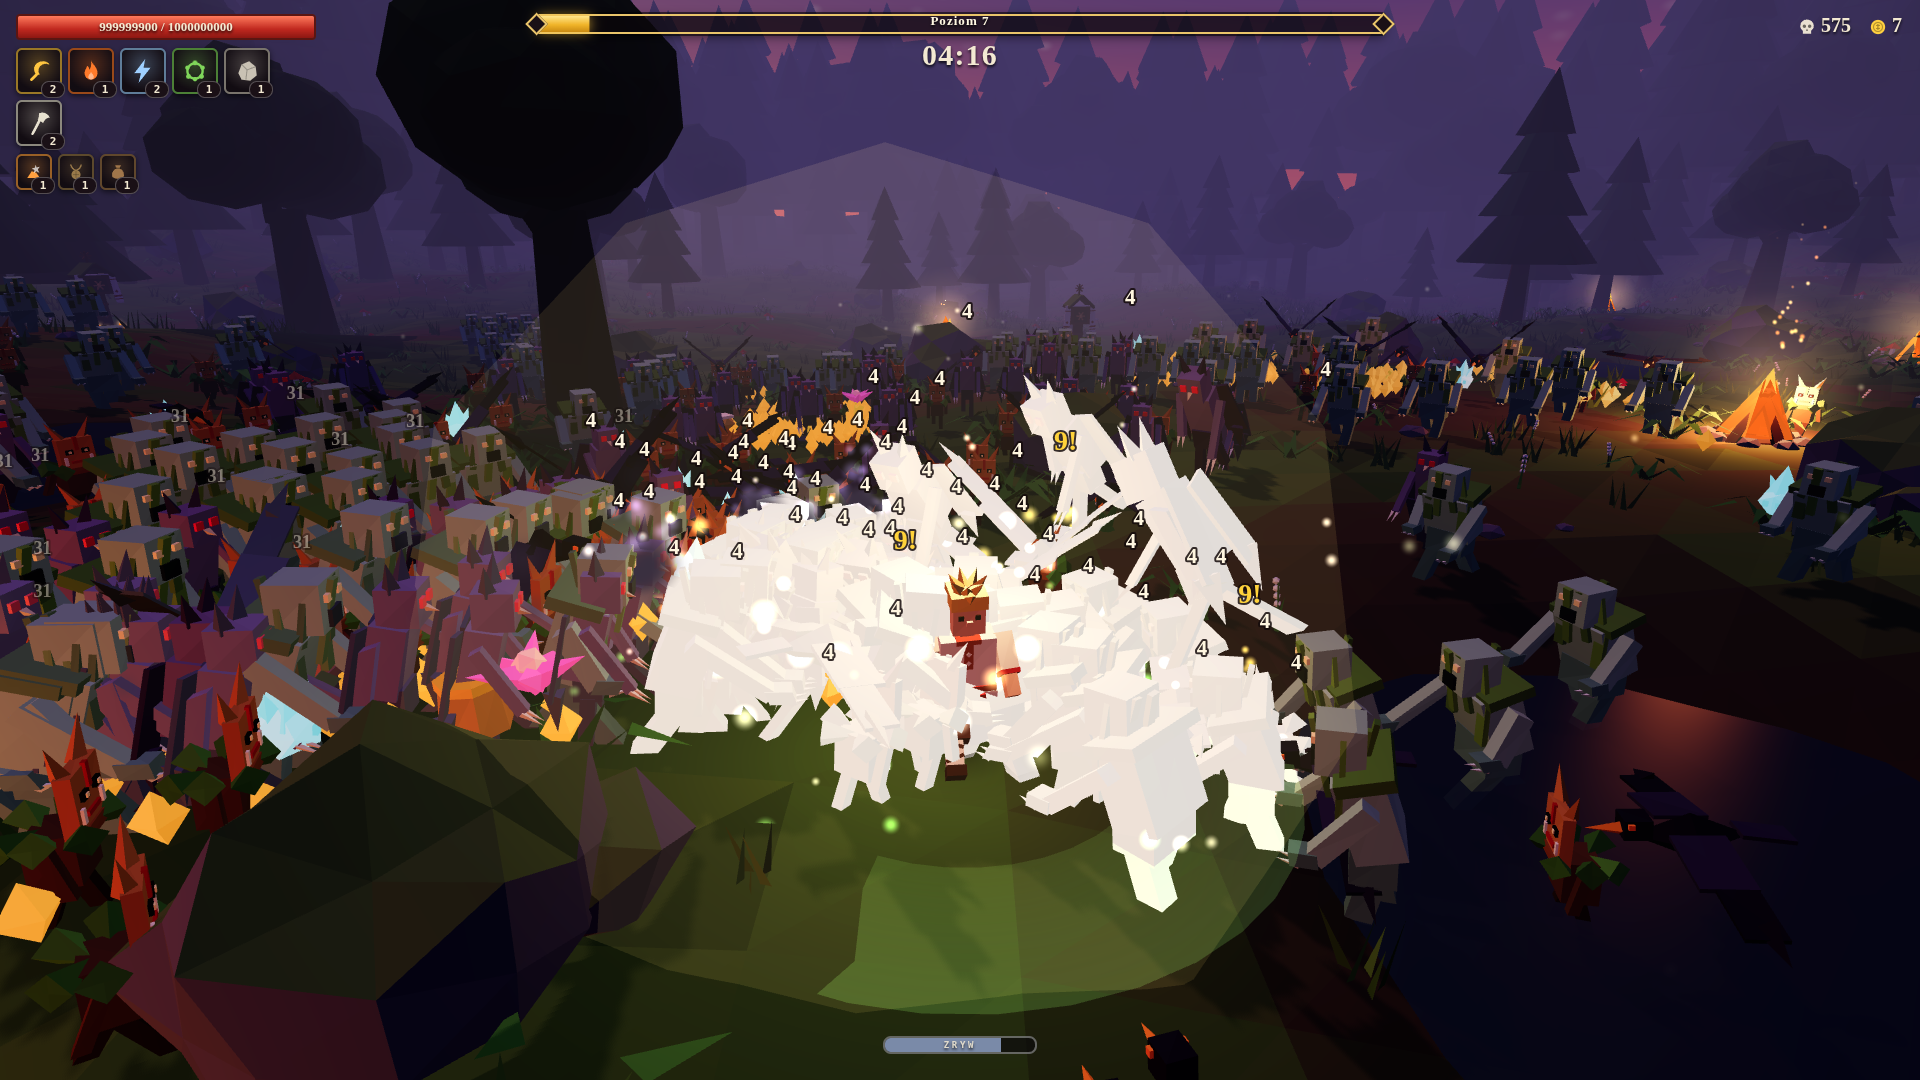
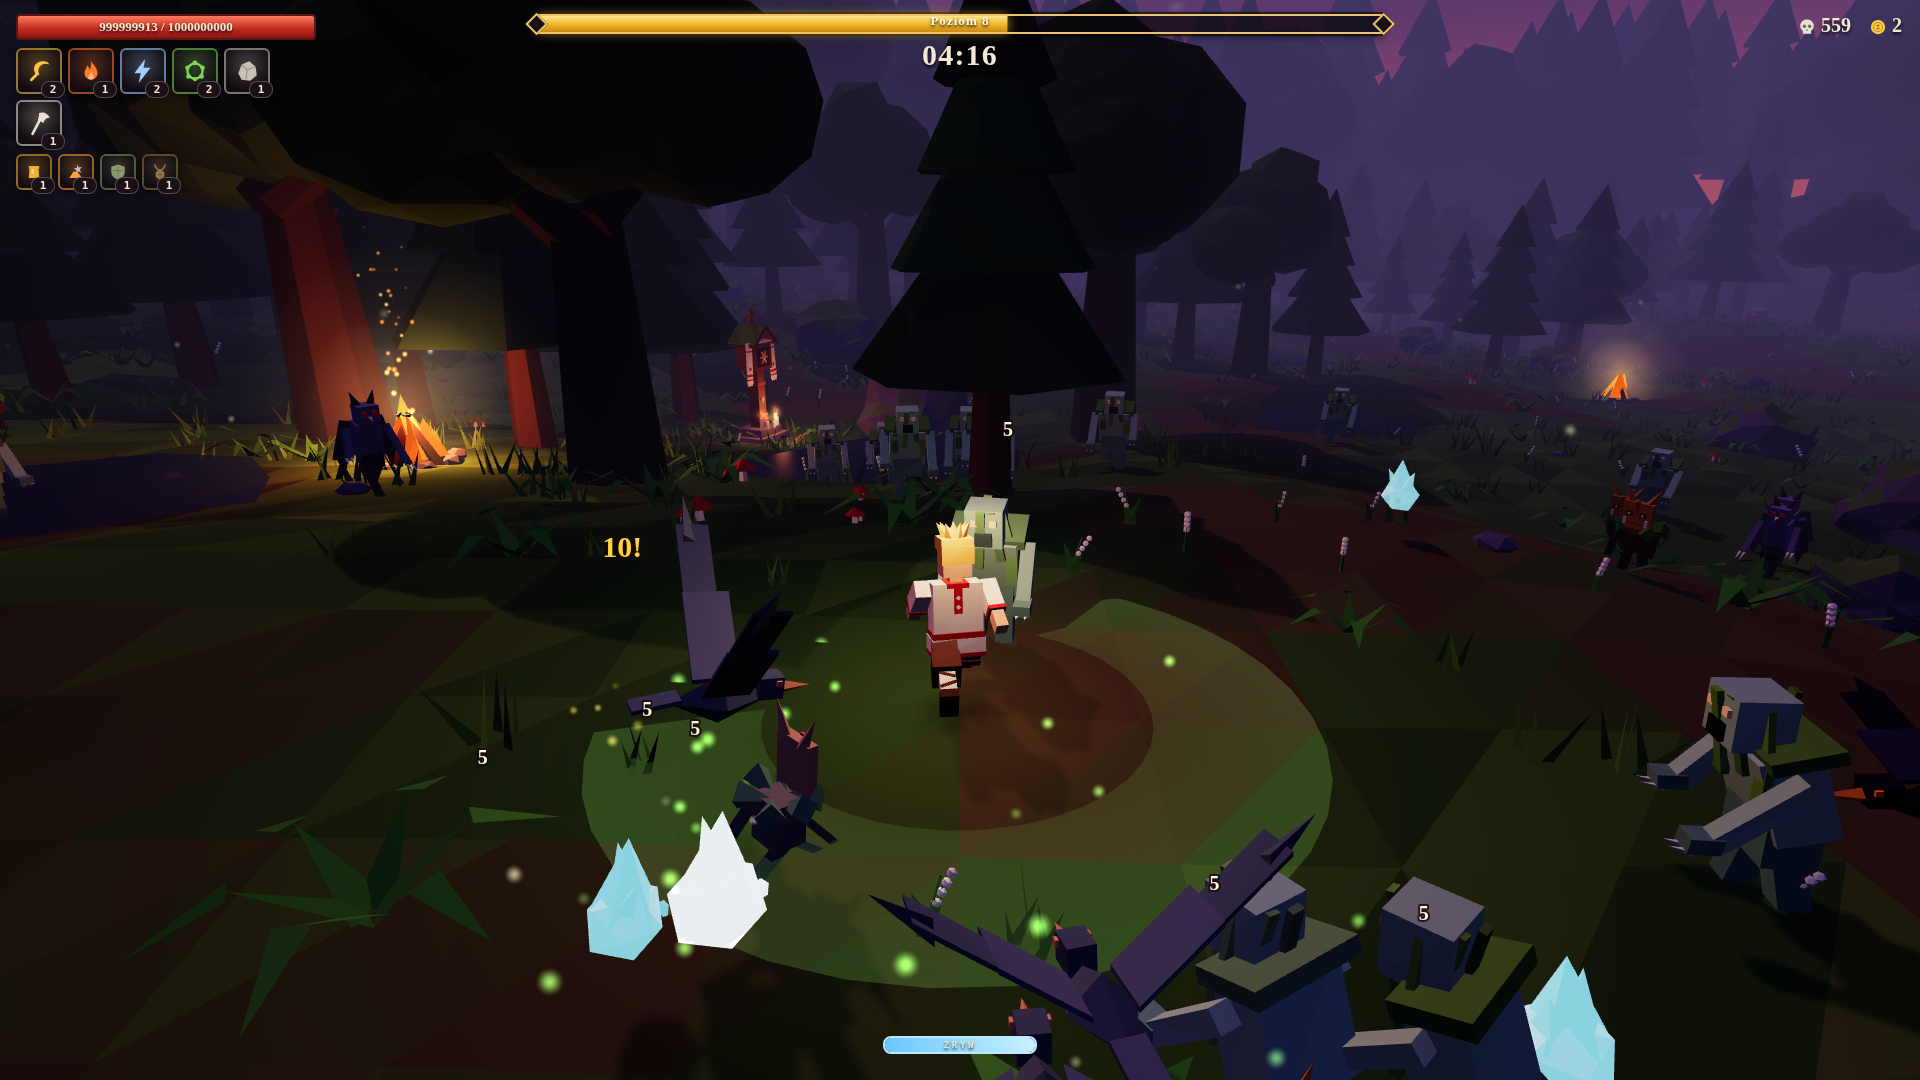
M3: skala - spawner fal, test 500/700 wrogów, pomiar FPS (docs/PERF.md)
- 500 wrogów: 482 FPS na zintegrowanym Radeonie 860M (1,8 ms na klatkę z gl.finish)
- skrypt pomiarowy scripts/verify/m3.mjs, liczniki wydajności w Game
- fala uderzeniowa jako pierścień, błysk trafienia proporcjonalny do siły ciosu

diff --git a/src/render/fxView.ts b/src/render/fxView.ts
@@ -319,9 +319,10 @@ export class FxView {
       g.add(mesh);
       this.bolts.push({ mesh, t: 0, span: 0.16, r: 1 });
     }
-    const boomGeo = new THREE.IcosahedronGeometry(1, 1);
+    // Shockwave: a flat ring that expands along the ground.
+    const boomGeo = arcGeometry(0.72, 1, 0, TAU, 36, false);
     for (let i = 0; i < 20; i++) {
-      const mesh = new THREE.Mesh(boomGeo, new THREE.MeshBasicMaterial({ transparent: true, blending: THREE.AdditiveBlending, depthWrite: false, toneMapped: false }));
+      const mesh = new THREE.Mesh(boomGeo, new THREE.MeshBasicMaterial({ vertexColors: true, transparent: true, blending: THREE.AdditiveBlending, depthWrite: false, toneMapped: false, side: THREE.DoubleSide }));
       mesh.visible = false;
       mesh.renderOrder = 4;
       g.add(mesh);
@@ -565,7 +566,7 @@ void main() {
       if (b.t > best.t) best = b;
     }
     best.mesh.visible = true;
-    best.mesh.position.set(x, y, z);
+    best.mesh.position.set(x, Math.max(y - 0.6, this.map.heightAt(x, z) + 0.25), z);
     best.t = 0;
     best.span = span;
     best.r = r;
@@ -964,9 +965,9 @@ void main() {
         b.mesh.visible = false;
         continue;
       }
-      const s = b.r * (0.35 + 0.65 * (1 - (1 - k) * (1 - k)));
-      b.mesh.scale.setScalar(s);
-      (b.mesh.material as THREE.MeshBasicMaterial).opacity = 0.55 * (1 - k);
+      const s = b.r * (0.3 + 0.7 * (1 - (1 - k) * (1 - k)));
+      b.mesh.scale.set(s, 1, s);
+      (b.mesh.material as THREE.MeshBasicMaterial).opacity = 0.8 * (1 - k);
     }
     for (const w of this.warns) {
       if (!w.mesh.visible) continue;

diff --git a/src/game.ts b/src/game.ts
@@ -34,6 +34,8 @@ export class Game {
   private endT = 0;
   private runSaved = false;
   private character: CharacterDef;
+  /** When set, every frame waits for the GPU (gl.finish) so frame times include GPU work. Perf test only. */
+  perfFinish = false;
   /** Performance counters (see docs/PERF.md). */
   readonly perf = { frames: 0, simMs: 0, renderMs: 0, steps: 0, since: 0, worst: 0 };
 
@@ -354,6 +356,7 @@ export class Game {
     const frozen = this.state === 'paused' || this.state === 'choice' || this.state === 'end';
     this.gfx.render(this.world, frozen ? 1 : alpha, frozen ? Math.min(frameDt, 0.001) : frameDt);
     if (this.state === 'playing' || this.state === 'ending') this.ui.updateHud(this.world, frameDt);
+    if (this.perfFinish) this.gfx.renderer.getContext().finish();
     const ms = performance.now() - t0;
     this.perf.renderMs += ms;
     this.perf.frames++;

diff --git a/src/render/enemiesView.ts b/src/render/enemiesView.ts
@@ -176,14 +176,14 @@ export class EnemiesView {
           break;
       }
       const flash = e.flash[i] as number;
-      if (flash > 0) {
+      if (flash > 0.06) {
         s *= 1.07;
         sy *= 0.95;
       }
       writeMatrix(v.mesh.instanceMatrix.array, idx, x, y, z, e.yaw[i] as number, s, sy, s, tilt);
       const fa = v.fx.array as Float32Array;
       const o = idx * 4;
-      fa[o] = flash > 0 ? Math.min(1, flash / 0.08) : 0;
+      fa[o] = flash > 0 ? Math.min(1, flash / 0.1) : 0;
       fa[o + 1] = elite;
       fa[o + 2] = i * 1.618;
       fa[o + 3] = (e.slowT[i] as number) > 0 ? Math.min(1, (e.slowK[i] as number) * 1.6) : 0;

diff --git a/src/sim/world.ts b/src/sim/world.ts
@@ -322,7 +322,9 @@ export class World {
       this.burnDealt += dmg;
     }
     e.hp[i] = (e.hp[i] as number) - dmg;
-    e.flash[i] = 0.12;
+    // Flash strength follows how much the hit matters, so aura ticks do not white out the whole crowd.
+    const fl = 0.035 + 0.085 * Math.min(1, dmg / ((e.maxHp[i] as number) * 0.2));
+    if (fl > (e.flash[i] as number)) e.flash[i] = fl;
     if (kb > 0) {
       const k = kb * (1 - def.weight);
       e.vx[i] = (e.vx[i] as number) + kx * k;

diff --git a/docs/PERF.md b/docs/PERF.md
@@ -1,0 +1,41 @@
+# Wydajność
+
+Pomiar: `node scripts/verify/m3.mjs egl 300,500,700` (bezgłowy Chrome, 1920×1080, jakość „Wysoka”,
+cienie 2048, bot gra, sześć broni naraz, spawner utrzymuje zadaną liczbę żywych wrogów,
+`gl.finish()` po każdej klatce, więc czas klatki zawiera pracę GPU; bez ogranicznika klatek).
+
+Sprzęt: laptop, **zintegrowany AMD Radeon 860M** (ANGLE / OpenGL ES 3.2). Pomiar z 10 s po 6 s rozgrzewki.
+
+| Żywi wrogowie | FPS (bez limitu) | Symulacja / krok | CPU + GPU / klatkę | Najgorsza klatka |
+|---:|---:|---:|---:|---:|
+| 300 | 562 | 0,20 ms | 1,6 ms | 52 ms |
+| 500 | 482 | 0,33 ms | 1,8 ms | 29 ms |
+| 700 | 462 | 0,39 ms | 1,9 ms | 29 ms |
+
+Wymaganie „300+ wrogów przy stabilnych 60 FPS” jest spełnione z zapasem około 8×: przy 500 wrogach
+klatka zajmuje ~1,8 ms z budżetu 16,7 ms. Pojedyncze „najgorsze klatki” (29–52 ms) to kompilacja
+shaderów przy pierwszym pojawieniu się nowego efektu, nie stały koszt.
+
+Dla porównania RTX 5070 przez ANGLE/Vulkan w trybie headless dał 157 FPS przy 500 wrogach
+(ścieżka headless Vulkan ma narzut na odczyt bufora; w zwykłym oknie wynik będzie wyższy).
+
+## Skąd ta wydajność
+
+- **InstancedMesh na typ wroga**: 11 wywołań rysowania niezależnie od liczby wrogów; macierze zapisywane
+  bezpośrednio do bufora instancji, do GPU trafia tylko używany zakres (`addUpdateRange`).
+- **Animacja kończyn i skrzydeł w vertex shaderze** (atrybut `aAnim`), bez kości i bez pracy CPU.
+- **Pule SoA** (`Float32Array`) dla wrogów, pocisków, bursztynów, stref i zagrożeń: zero alokacji w pętli gry.
+- **Siatka przestrzenna** przebudowywana co krok sortowaniem przez zliczanie: celowanie, trafienia
+  i rozpychanie wrogów pytają tylko sąsiednie komórki.
+- **Pula 4 świateł punktowych** przenoszonych do najbliższych ognisk i kapliczek: stały koszt shaderów
+  niezależnie od liczby źródeł ognia na mapie.
+- **Cząsteczki** w jednym `Points` na system (addytywny i „kurz”), **liczby obrażeń** na osobnym canvasie 2D.
+- Zdarzenia symulacji w buforze o stałym rozmiarze (bez tworzenia obiektów).
+
+## Ustawienia jakości
+
+| Jakość | Cienie | Rozdzielczość | Roślinność | Cząsteczki |
+|---|---|---|---|---|
+| Niska | wyłączone | ×1 | 35% | 50% |
+| Średnia | 1024 | do ×1,5 | 70% | 80% |
+| Wysoka | 2048 | do ×2 | 100% | 100% |
